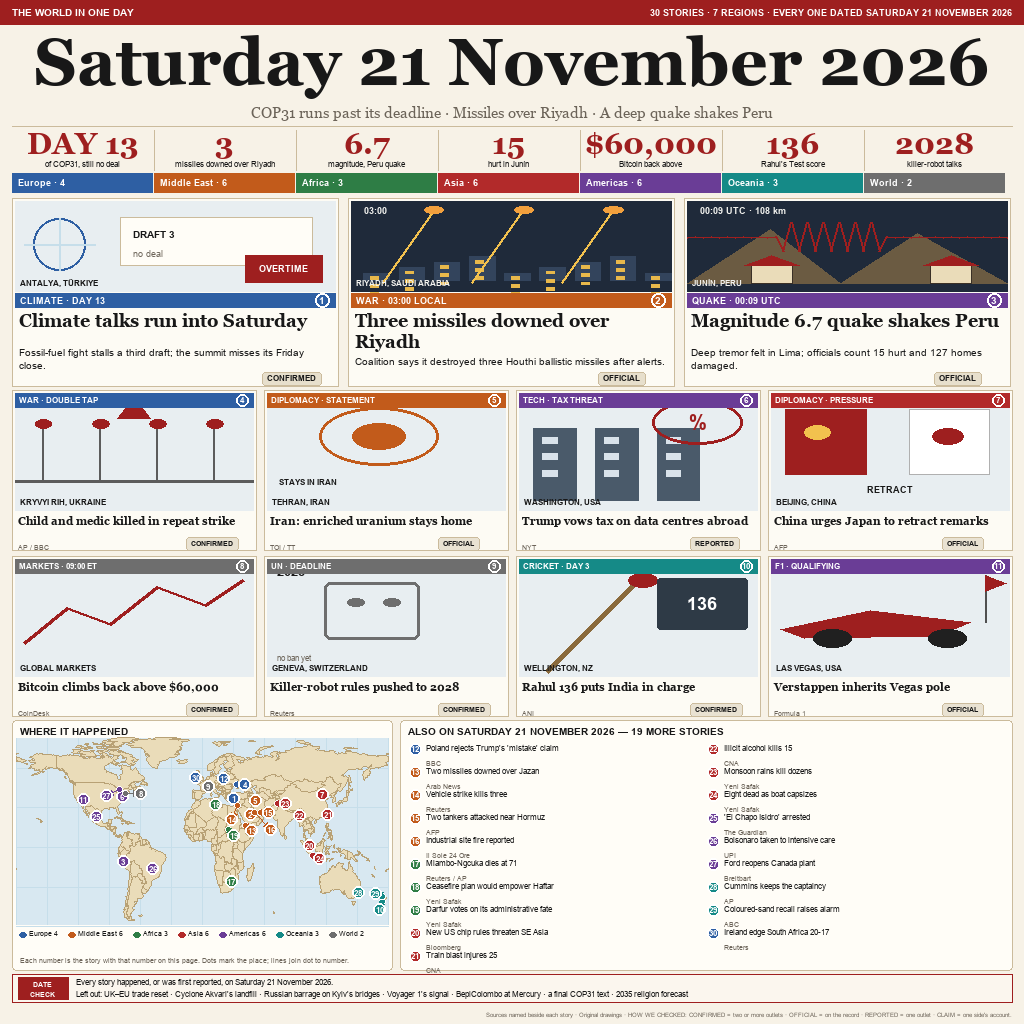
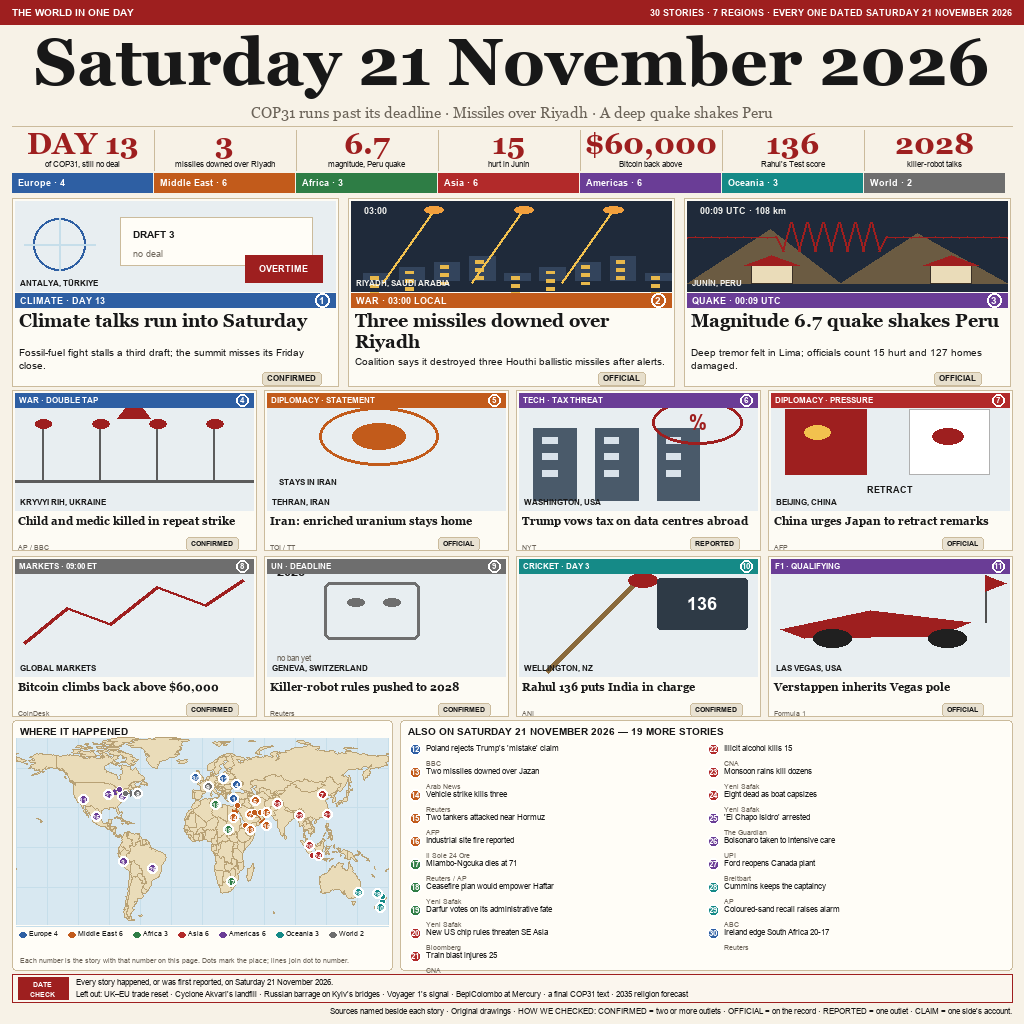
Reduce map clutter: smaller badges, fewer connector lines

diff --git a/render.py b/render.py
@@ -254,13 +254,13 @@ def map_panel(d, box):
         col = REGION_COLORS[s["region"]]
         d.ellipse([dx - 3, dy - 3, dx + 3, dy + 3], fill=rgb(col), outline=(255, 255, 255), width=1)
         got = None
-        for r in (0, 8, 15, 23, 32, 42):
+        for r in (0, 6, 12, 18, 24, 30):
             for k in range(16):
                 ang = 2 * math.pi * k / 16
                 bx, by = dx + r * math.cos(ang), dy + r * math.sin(ang)
-                if not (mx0 + 8 < bx < mx1 - 8 and my0 + 8 < by < my1 - 8):
+                if not (mx0 + 7 < bx < mx1 - 7 and my0 + 7 < by < my1 - 7):
                     continue
-                if all(math.hypot(bx - qx, by - qy) >= 2 * 6 + 3 for qx, qy, _ in placed):
+                if all(math.hypot(bx - qx, by - qy) >= 2 * 5 + 3 for qx, qy, _ in placed):
                     got = (bx, by)
                     break
             if got:
@@ -268,7 +268,7 @@ def map_panel(d, box):
         if got is None:
             got = (dx, dy)
         bx, by = got
-        if math.hypot(bx - dx, by - dy) > 4:
+        if math.hypot(bx - dx, by - dy) > 10:
             d.line([dx, dy, bx, by], fill=rgb(col), width=1)
             ang = math.atan2(by - dy, bx - dx)
             hx, hy = bx - 7 * math.cos(ang), by - 7 * math.sin(ang)
@@ -277,7 +277,7 @@ def map_panel(d, box):
                        (hx - 3 * math.sin(ang), hy + 3 * math.cos(ang))], fill=rgb(col))
         placed.append((bx, by, s["n"]))
         MAP_PLACEMENTS.append((s["n"], dx, dy, bx, by))
-        badge(d, bx, by, s["n"], col, r=6, fsize=8)
+        badge(d, bx, by, s["n"], col, r=5, fsize=7)
 
     # legend, one tight row like the house front page
     lx, ly = x0 + 7, y1 - 40
@@ -403,7 +403,7 @@ def build(out="entry.png"):
         font(7.5), INK)
     put(d, (tx, 990),
         wrap(DATE_CHECK, font(7.5), W - tx - 20, d)[0], font(7.5), INK)
-    put(d, (W - 12, 1010), SOURCES_LINE, font(6), MUTED, anchor="rm")
+    put(d, (W - 12, 1011), SOURCES_LINE, font(8), INK, anchor="rm")
 
     im.save(out, "PNG", optimize=True)
     return out

diff --git a/audit.py b/audit.py
@@ -57,9 +57,12 @@ def main():
     pts = [(x, y) for _, _, _, x, y in render.MAP_PLACEMENTS]
     mind = min(math.hypot(a[0] - b[0], a[1] - b[1])
                for i, a in enumerate(pts) for b in pts[i + 1:])
-    row("min badge distance >= 2r (12px)", mind >= 12, f"min={mind:.1f}px")
+    row("min badge distance >= 2r (10px)", mind >= 10, f"min={mind:.1f}px")
     offs = [math.hypot(bx - dx, by - dy) for _, dx, dy, bx, by in render.MAP_PLACEMENTS]
     row("max badge offset <= 42px", max(offs) <= 42, f"max={max(offs):.1f}px")
+    row("garis penghubung (offset > 10px)",
+        sum(1 for o in offs if o > 10) <= 8,
+        f"{sum(1 for o in offs if o > 10)} dari {len(offs)} badge")
     row("every story carries a source", all(s["source"] for s in STORIES), "30 sources")
     row("every story carries a place + time on its card",
         all(s["place"] and (s["kicker"] or s["scene"]) for s in STORIES), "30 datelines")
